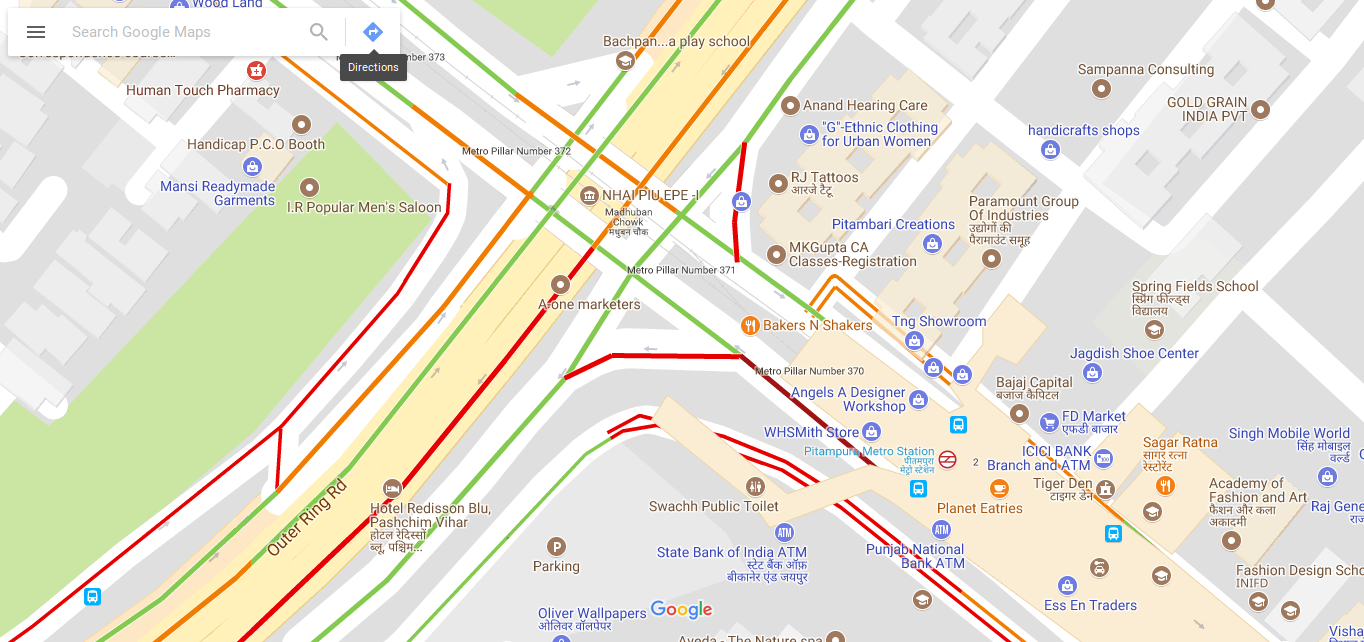
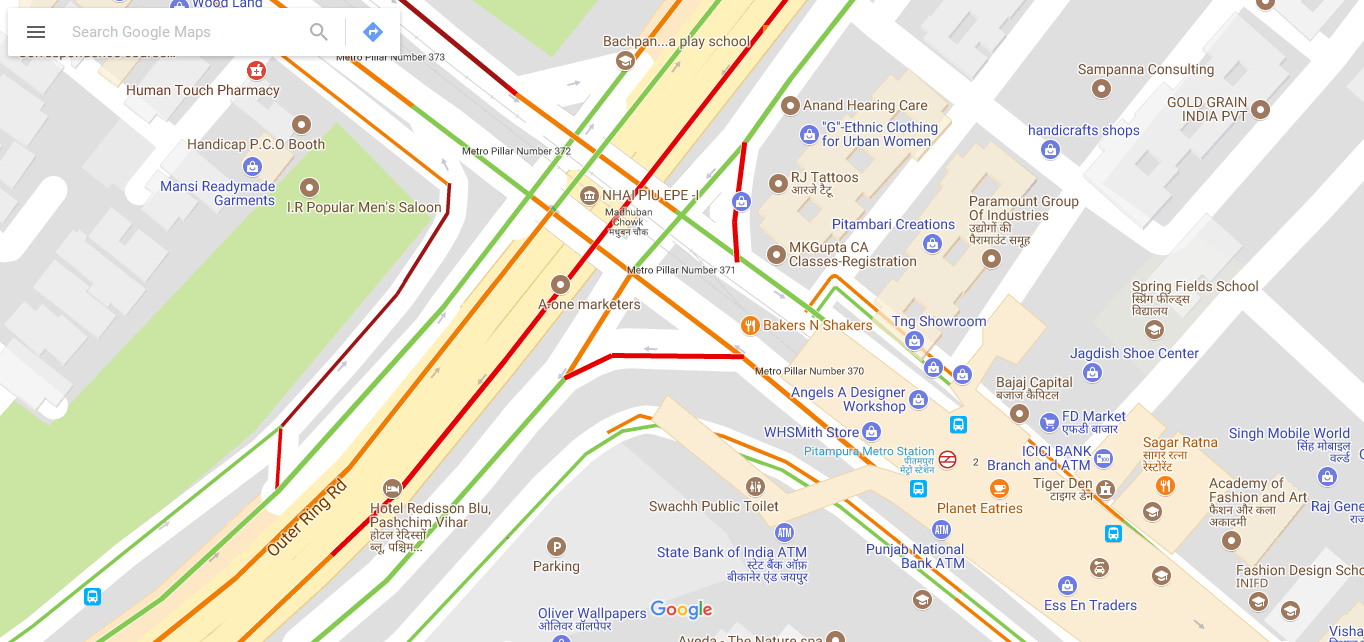
3 crossing are working

diff --git a/main.py b/main.py
@@ -159,6 +159,9 @@ def controlLight(crossing, xL, yL, xT, yT, xR, yR, xB, yB):
                 # turning on rRight st
                 board.turnOn(crossing.rBottom.tLight.st)
 
+                #getting update
+                crossing.mapc.getUpdate()
+                crossing.img = crossing.mapc.fetch()
                 # finding time to turn off rLeft st
                 timest = crossing.rTop.tLight.getStTime() - timeRt
                 time.sleep(timest)
@@ -180,6 +183,9 @@ def controlLight(crossing, xL, yL, xT, yT, xR, yR, xB, yB):
                 # turning on rRight st
                 board.turnOn(crossing.rBottom.tLight.st)
 
+                # getting update
+                crossing.mapc.getUpdate()
+                crossing.img = crossing.mapc.fetch()
                 # finding time to turn off rLeft st
                 timest = crossing.rBottom.tLight.getStTime() - timeRt
                 time.sleep(timest)
@@ -197,7 +203,7 @@ def controlLight(crossing, xL, yL, xT, yT, xR, yR, xB, yB):
 
 #controlling the lights
 #use your own coordinates comment mine
-thread.start_new_thread(controlLight, (c1, 494, 76, 138, 749, 361, 748, 256, 483))
+thread.start_new_thread(controlLight, (c1, 78, 495, 138, 749, 361, 748, 256, 483))
 thread.start_new_thread(controlLight, (c2, 299, 662, 0, 0, 365, 693, 372, 621))
 thread.start_new_thread(controlLight, (c3, 282, 720, 288, 793, 353, 758, 380, 705))
 thread.start_new_thread(controlLight, (c4, 282, 707, 0, 0, 390, 797, 439, 702))

diff --git a/Road.py b/Road.py
@@ -12,6 +12,7 @@ def color(a):
     elif np.array_equal(a, [19, 19, 158]):
         return "maroon"
     else:
+        print('white')
         return "white"
 
 class Road:
